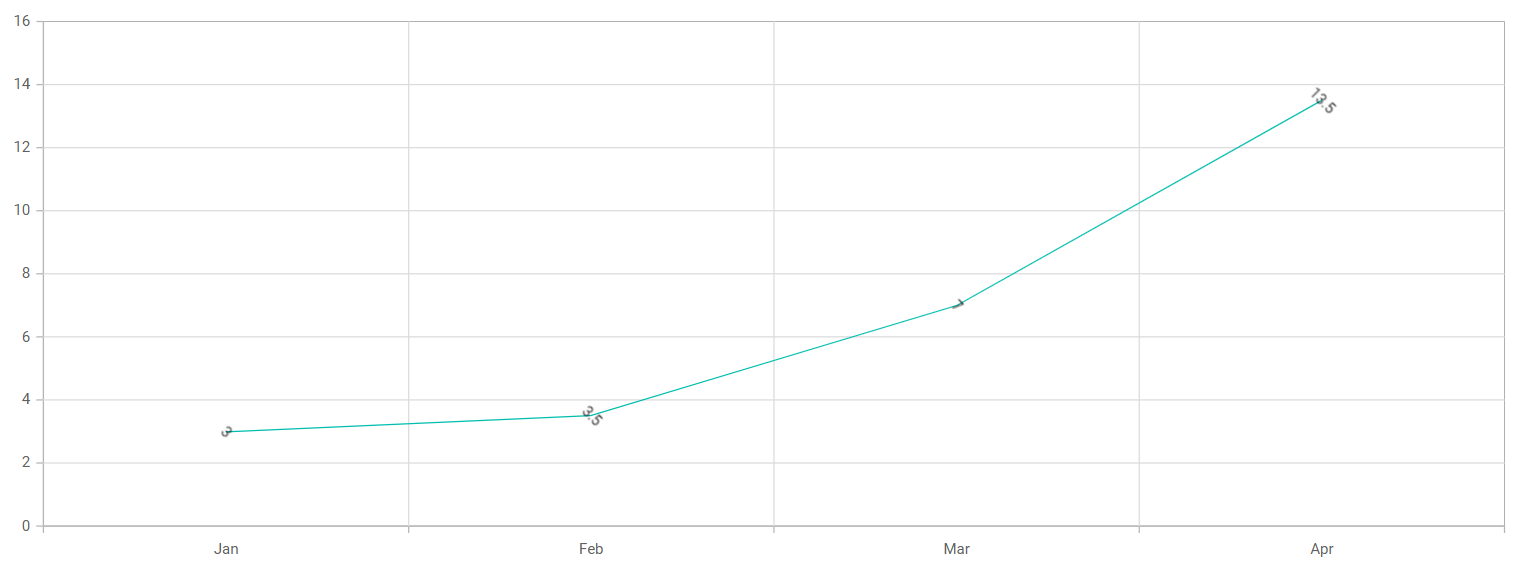
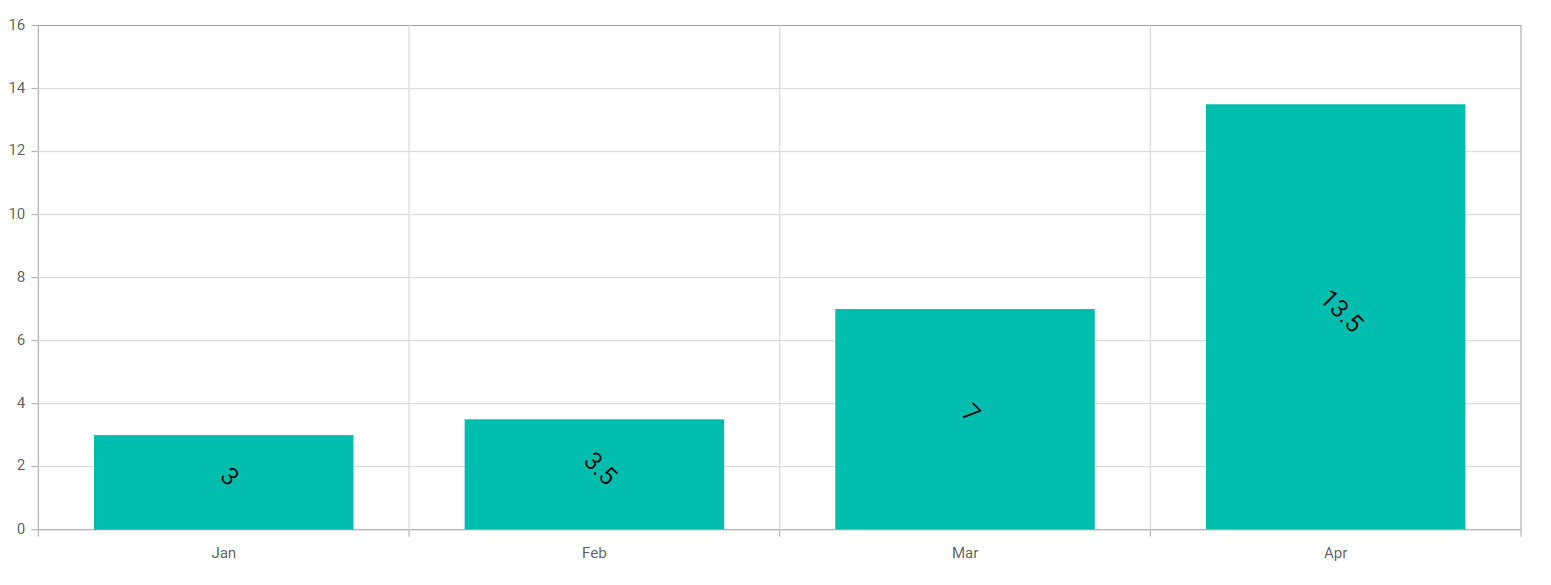
KB - review Changes made

diff --git a/README.md b/README.md
@@ -1,31 +1,33 @@
 # How-to-rotate-the-data-labels-in-Blazor-chart
 
-This article explains how rotate the data labels in blazor chart component.
+This article explains how to rotate the data labels in Blazor Chart Component.
 
-**Rotating data label in Blazor chart**
+**Rotating data labels in Blazor chart**
 
-[Blazor Chart](https://www.syncfusion.com/blazor-components/blazor-charts) provides the support to rotate data label. Data label can be rotated by setting the  [EnableRotation](https://help.syncfusion.com/cr/blazor/Syncfusion.Blazor.Charts.ChartDataLabel.html#Syncfusion_Blazor_Charts_ChartDataLabel_EnableRotation) property to true and by setting the angle(in degrees) to the [Angle](https://help.syncfusion.com/cr/blazor/Syncfusion.Blazor.Charts.ChartDataLabel.html#Syncfusion_Blazor_Charts_ChartDataLabel_Angle) property of [ChartDataLabel](https://help.syncfusion.com/cr/blazor/Syncfusion.Blazor.Charts.ChartDataLabel.html#Syncfusion_Blazor_Charts_ChartDataLabel__ctor).
+[Blazor Chart](https://www.syncfusion.com/blazor-components/blazor-charts) provides the support to rotate data label. Data label can be rotated by setting the  [EnableRotation](https://help.syncfusion.com/cr/blazor/Syncfusion.Blazor.Charts.ChartDataLabel.html#Syncfusion_Blazor_Charts_ChartDataLabel_EnableRotation) property to **true** and by setting the angle(in degrees) to the [Angle](https://help.syncfusion.com/cr/blazor/Syncfusion.Blazor.Charts.ChartDataLabel.html#Syncfusion_Blazor_Charts_ChartDataLabel_Angle) property of [ChartDataLabel](https://help.syncfusion.com/cr/blazor/Syncfusion.Blazor.Charts.ChartDataLabel.html#Syncfusion_Blazor_Charts_ChartDataLabel__ctor).
 
-The Following Code example illustrates this.
+The following Code example illustrates this.
 
-**C#**
+**Index.razor**
 
-```cshtml
+```cshtml 
 
 @using Syncfusion.Blazor.Charts
 
 <SfChart>
 
-    <ChartPrimaryXAxis ValueType="Syncfusion.Blazor.Charts.ValueType.Category"/>
+    <ChartPrimaryXAxis ValueType="Syncfusion.Blazor.Charts.ValueType.Category" /> 
 
     <ChartSeriesCollection>
-        <ChartSeries DataSource="@WeatherReports" XName="X" YName="Y" Type="ChartSeriesType.Line">
-            <ChartMarker>
-                <ChartDataLabel Visible="true" EnableRotation="true" Position="Syncfusion.Blazor.Charts.LabelPosition.Middle" Angle="45"/>
+        <ChartSeries DataSource="@WeatherReports" XName="X" YName="Y" Type="ChartSeriesType.Column">
+            <ChartMarker>               
+                <ChartDataLabel Visible="true" EnableRotation="true" Position="Syncfusion.Blazor.Charts.LabelPosition.Middle" Angle="45">
+                    <ChartDataLabelFont Size="20" ></ChartDataLabelFont>                    
+                </ChartDataLabel>                
             </ChartMarker>
         </ChartSeries>
     </ChartSeriesCollection>
-    
+
 </SfChart>
 
 @code {
@@ -42,17 +44,16 @@ The Following Code example illustrates this.
         new Data{ X= "Feb", Y= 3.5 },
         new Data{ X= "Mar", Y= 7 },
         new Data{ X= "Apr", Y= 13.5 }
-    };
-
+    };     
 }
 
 ```
 
-The following screenshot illustrate the output of the above code snippet.
+The following screenshot illustrates the output of the above code snippet.
 
 **Output:**
 
-![](/datalabel-rotation.png)
+![Roatated datalabel](/datalabel-rotation.png)
 
 **Conclusion**
 
